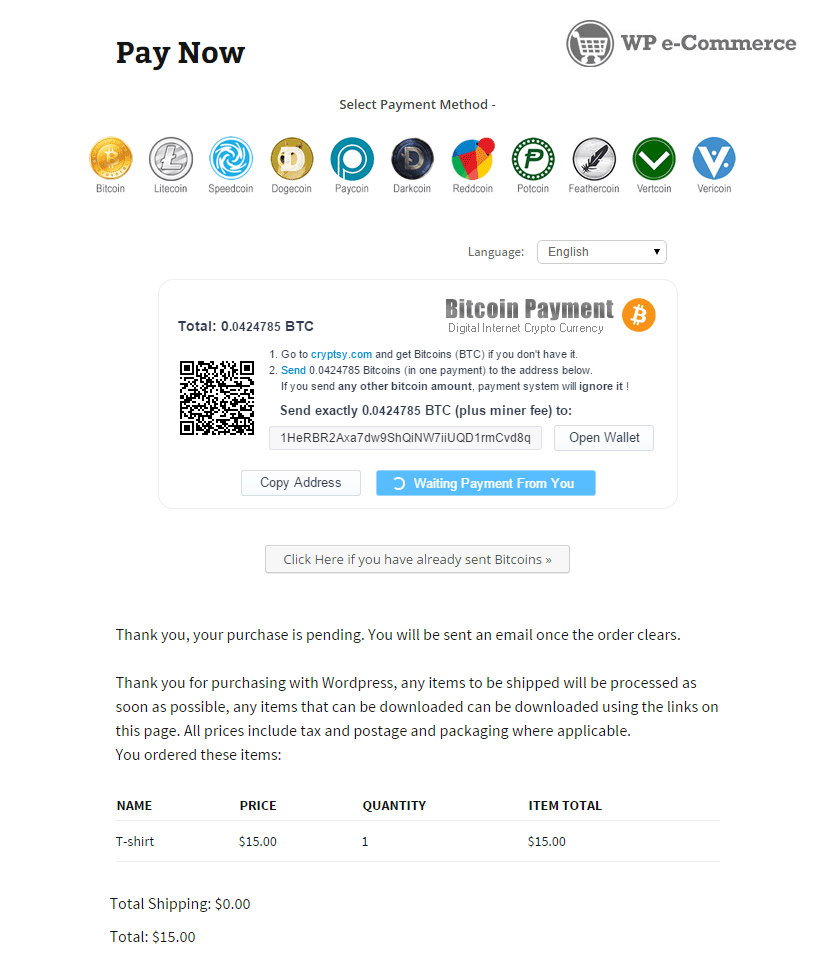
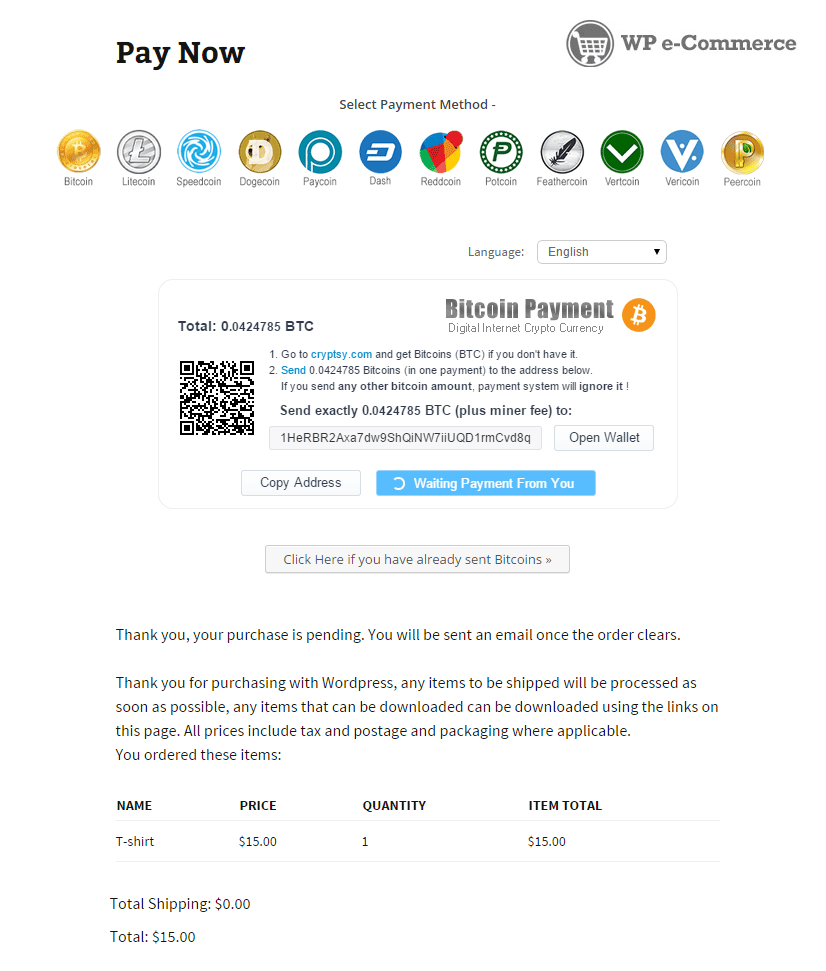
Version 1.1.0 Added Peercoin Spanish payment box localisation
git-svn-id: https://plugins.svn.wordpress.org/gourl-wp-ecommerce-bitcoin-altcoin-payment-gateway-addon/trunk@1145694 b8457f37-d9ea-0310-8a92-e5e31aec5664

Changed region(s): [[0.0605, 0.1236, 0.9383, 0.2163]]

diff --git a/gourl-wp-ecommerce.php b/gourl-wp-ecommerce.php
@@ -2,8 +2,8 @@
 /*
 Plugin Name: 		GoUrl WP eCommerce - Bitcoin Altcoin Payment Gateway Addon
 Plugin URI: 		https://gourl.io/bitcoin-payments-wp-ecommerce.html
-Description: 		Provides a <a href="https://gourl.io">GoUrl.io</a> Bitcoin/Altcoins Payment Gateway for <a href="https://wordpress.org/plugins/wp-e-commerce/">WP eCommerce 3.8.10+</a>. Support product prices in USD/EUR/etc and in Bitcoin/Altcoins directly; sends the amount straight to your business Bitcoin/Altcoin wallet. Convert your USD/EUR/etc prices to cryptocoins using Google/Bitstamp/Cryptsy Live Exchange Rates. Accept Bitcoin, Litecoin, Speedcoin, Dogecoin, Paycoin, Darkcoin, Reddcoin, Potcoin, Feathercoin, Vertcoin, Vericoin payments online. No Chargebacks, Global, Secure. All in automatic mode.
-Version: 			1.0.1
+Description: 		Provides a <a href="https://gourl.io">GoUrl.io</a> Bitcoin/Altcoin Payment Gateway for <a href="https://wordpress.org/plugins/wp-e-commerce/">WP eCommerce 3.8.10+</a>. Support product prices in USD/EUR/etc and in Bitcoin/Altcoins directly; sends the amount straight to your business Bitcoin/Altcoin wallet. Convert your USD/EUR/etc prices to cryptocoins using Google/Bitstamp/Cryptsy Live Exchange Rates. Accept Bitcoin, Litecoin, Paycoin, Dogecoin, Dash, Speedcoin, Reddcoin, Potcoin, Feathercoin, Vertcoin, Vericoin, Peercoin payments online. No Chargebacks, Global, Secure. All in automatic mode.
+Version: 			1.1.0
 Author: 			GoUrl.io
 Author URI: 		https://gourl.io
 License: 			GPLv2
@@ -111,13 +111,13 @@ class wpsc_gourl_gateway extends wpsc_merchant
 		
 		if (class_exists('gourlclass') && defined('GOURL') && defined('GOURL_ADMIN') && is_object($gourl))
 		{
-			if (true === version_compare(GOURL_VERSION, '1.2.7', '<'))
+			if (true === version_compare(GOURL_VERSION, '1.3', '<'))
 			{
-				$description .= '<div class="error"><p>' .sprintf(__( '<b>Your GoUrl Bitcoin Gateway <a href="%s">Main Plugin</a> version is too old. Requires 1.2.7 or higher version. Please <a href="%s">update</a> to latest version.</b>  &#160; &#160; &#160; &#160; Information: &#160; <a href="https://gourl.io/bitcoin-wordpress-plugin.html">Plugin Homepage</a> &#160; &#160; &#160; <a href="https://wordpress.org/plugins/gourl-bitcoin-payment-gateway-paid-downloads-membership/">WordPress.org Plugin Page</a>', GOURLWPSC ), GOURL_ADMIN.GOURL, $mainplugin_url).'</p></div>';
+				$description .= '<div class="error"><p>' .sprintf(__( '<b>Your GoUrl Bitcoin Gateway <a href="%s">Main Plugin</a> version is too old. Requires 1.3 or higher version. Please <a href="%s">update</a> to latest version.</b>  &#160; &#160; &#160; &#160; Information: &#160; <a href="https://gourl.io/bitcoin-wordpress-plugin.html">Plugin Homepage</a> &#160; &#160; &#160; <a href="https://wordpress.org/plugins/gourl-bitcoin-payment-gateway-paid-downloads-membership/">WordPress.org Plugin Page</a>', GOURLWPSC ), GOURL_ADMIN.GOURL, $mainplugin_url).'</p></div>';
 			}
 			elseif (true === version_compare(WPSC_VERSION, '3.8.10', '<'))
 			{
-				$description .= '<div class="error"><p>' .sprintf(__( '<b>Your WP eCommerce version %s is too old</b>. Requires 3.8.10 or higher version for GoUrl Bitcoin/Altcoins Payment Gateway', GOURLWPSC ), WPSC_VERSION).'</p></div>';
+				$description .= '<div class="error"><p>' .sprintf(__( '<b>Your WP eCommerce version %s is too old</b>. Requires 3.8.10 or higher version for GoUrl Bitcoin/Altcoin Payment Gateway', GOURLWPSC ), WPSC_VERSION).'</p></div>';
 			}
 			else
 			{
@@ -145,7 +145,7 @@ class wpsc_gourl_gateway extends wpsc_merchant
 	
 		$description .= "<br/><b>" . __( 'Secure payments with virtual currency. &#160; <a target="_blank" href="https://bitcoin.org/">What is Bitcoin?</a>', GOURLWPSC ) . '</b><br/>';
 		$description .= __( 'If you use multiple stores/sites online, please create separate <a target="_blank" href="https://gourl.io/editrecord/coin_boxes/0">GoUrl Payment Box</a> (with unique payment box public/private keys) for each of your stores/websites. Do not use the same GoUrl Payment Box with the same public/private keys on your different websites/stores.', GOURLWPSC ).'<br/>';
-		$description .= sprintf(__( 'Accept %s payments online in WP eCommerce.', GOURLWPSC), ($coin_names?ucwords(implode(", ", $coin_names)):"Bitcoin, Litecoin, Speedcoin, Dogecoin, Paycoin, Darkcoin, Reddcoin, Potcoin, Feathercoin, Vertcoin, Vericoin")).'<br/>';
+		$description .= sprintf(__( 'Accept %s payments online in WP eCommerce.', GOURLWPSC), ($coin_names?ucwords(implode(", ", $coin_names)):"Bitcoin, Litecoin, Paycoin, Dogecoin, Dash, Speedcoin, Reddcoin, Potcoin, Feathercoin, Vertcoin, Vericoin, Peercoin")).'<br/>';
 	
 		
 		$logos = array('global' => __( 'GoUrl default logo - "Global Payments"', GOURLWPSC ));
@@ -285,9 +285,9 @@ class wpsc_gourl_gateway extends wpsc_merchant
 		$mainplugin_url = admin_url("plugin-install.php?tab=search&type=term&s=GoUrl+Bitcoin+Payment+Gateway+Downloads");
 	
 		// Re-test
-		if (!(class_exists('gourlclass') && defined('GOURL') && defined('GOURL_ADMIN') && is_object($gourl) && true === version_compare(GOURL_VERSION, '1.2.7', '>=')))
+		if (!(class_exists('gourlclass') && defined('GOURL') && defined('GOURL_ADMIN') && is_object($gourl) && true === version_compare(GOURL_VERSION, '1.3', '>=')))
 		{
-			$this->set_error_message('<div style="border:1px solid #eee;margin:20px 10px;padding:10px">'.sprintf(__( '<b>Error!</b> Please try a different payment method. Admin need to install and activate GoUrl Bitcoin Gateway Main Plugin 1.2.7+. <a href="%s">Bitcoin Gateway plugin page</a><br>Information: &#160; <a href="https://gourl.io/bitcoin-wordpress-plugin.html">Plugin Homepage</a> &#160; &#160; &#160; <a href="https://wordpress.org/plugins/gourl-bitcoin-payment-gateway-paid-downloads-membership/">WordPress.org Plugin Page</a> ', GOURLWPSC ), $mainplugin_url).'</p></div>');
+			$this->set_error_message('<div style="border:1px solid #eee;margin:20px 10px;padding:10px">'.sprintf(__( '<b>Error!</b> Please try a different payment method. Admin need to install and activate GoUrl Bitcoin Gateway Main Plugin 1.3+. <a href="%s">Bitcoin Gateway plugin page</a><br>Information: &#160; <a href="https://gourl.io/bitcoin-wordpress-plugin.html">Plugin Homepage</a> &#160; &#160; &#160; <a href="https://wordpress.org/plugins/gourl-bitcoin-payment-gateway-paid-downloads-membership/">WordPress.org Plugin Page</a> ', GOURLWPSC ), $mainplugin_url).'</p></div>');
 			$this->set_purchase_processed_by_purchid(1); // WPSC_Purchase_Log::INCOMPLETE_SALE
 			return;
 		}
@@ -364,6 +364,7 @@ class wpsc_gourl_gateway extends wpsc_merchant
 		$order_user_id		= $arr["purchase_log"]["user_ID"];
 
 		if ($order_currency == "DOG") $order_currency = "DOGE"; // WP eCommerce allow max 3 symbols for coin symbol
+		if ($order_currency == "DAS") $order_currency = "DASH"; // WP eCommerce allow max 3 symbols for coin symbol
 		
 		
 		// Security
@@ -377,7 +378,7 @@ class wpsc_gourl_gateway extends wpsc_merchant
 			echo '<h2>' . __( 'Information', GOURLWPSC ) . '</h2>' . PHP_EOL;
 			echo "<div style='border:1px solid #eee;margin:20px 10px;padding:10px'>".__( "Please try a different payment method. Admin need to install and activate wordpress plugin 'GoUrl Bitcoin Gateway' (https://gourl.io/bitcoin-wordpress-plugin.html) to accept Bitcoin/Altcoin Payments online", GOURLWPSC )."</div>";
 		}
-		elseif (!$payments || !$defcoin || true === version_compare(WPSC_VERSION, '3.8.10', '<') || true === version_compare(GOURL_VERSION, '1.2.7', '<') ||
+		elseif (!$payments || !$defcoin || true === version_compare(WPSC_VERSION, '3.8.10', '<') || true === version_compare(GOURL_VERSION, '1.3', '<') ||
 				(array_key_exists($order_currency, $coin_names) && !array_key_exists($order_currency, $payments)))
 		{
 			echo '<h2>' . __( 'Information', GOURLWPSC ) . '</h2>' . PHP_EOL;
@@ -476,15 +477,16 @@ class wpsc_gourl_gateway extends wpsc_merchant
 			$sql = "INSERT INTO `".WPSC_TABLE_CURRENCY_LIST."` VALUES
 				(0, 'Cryptocurrency', 'C1', 'Bitcoin', '', '', 'BTC', '0', '0','world','1'),
 				(0, 'Cryptocurrency', 'C2', 'Litecoin', '', '', 'LTC', '0', '0','world','1'),
-				(0, 'Cryptocurrency', 'C3', 'Dogecoin', '', '', 'DOG', '0', '0','world','1'),
-				(0, 'Cryptocurrency', 'C5', 'Speedcoin', '', '', 'SPD', '0', '0','world','1'),
 				(0, 'Cryptocurrency', 'C6', 'Paycoin', '', '', 'XPY', '0', '0','world','1'),
-				(0, 'Cryptocurrency', 'C7', 'Darkcoin', '', '', 'DRK', '0', '0','world','1'),
-				(0, 'Cryptocurrency', 'C8', 'Vertcoin', '', '', 'VTC', '0', '0','world','1'),
+				(0, 'Cryptocurrency', 'C3', 'Dogecoin', '', '', 'DOG', '0', '0','world','1'),
+				(0, 'Cryptocurrency', 'C7', 'Dash', '', '', 'DASH', '0', '0','world','1'),
+				(0, 'Cryptocurrency', 'C5', 'Speedcoin', '', '', 'SPD', '0', '0','world','1'),
 				(0, 'Cryptocurrency', 'C9', 'Reddcoin', '', '', 'RDD', '0', '0','world','1'),
+				(0, 'Cryptocurrency', 'D3', 'Potcoin', '', '', 'POT', '0', '0','world','1'),
 				(0, 'Cryptocurrency', 'D1', 'Feathercoin', '', '', 'FTC', '0', '0','world','1'),
+				(0, 'Cryptocurrency', 'C8', 'Vertcoin', '', '', 'VTC', '0', '0','world','1'),
 				(0, 'Cryptocurrency', 'D2', 'Vericoin', '', '', 'VRC', '0', '0','world','1'),
-				(0, 'Cryptocurrency', 'D3', 'Potcoin', '', '', 'POT', '0', '0','world','1')";
+				(0, 'Cryptocurrency', 'D4', 'Peercoin', '', '', 'PPC', '0', '0','world','1')";
 	
 			$wpdb->query($sql);
 		}
@@ -632,12 +634,12 @@ function gourlwpecommerce_gourlcallback ($user_id, $order_id, $payment_details, 
 	wpsc_update_purchase_log_status($order_id, $status);
 	wpsc_update_purchase_log_details($order_id, array('transactid' => $trID));
 
-	
+
 	// WP eCommerce not use new updated order status, therefore need to refresh page manually
 	if (in_array($status, array(3,4,5)) && !in_array($arr["processed"], array(3,4,5)) && !stripos($_SERVER["REQUEST_URI"], "cryptobox.callback.php")) { header('Location: '.$_SERVER["REQUEST_URI"]); echo "<script>window.location.href = '".$_SERVER["REQUEST_URI"]."';</script>"; die; }
 	
 	
-	return true;
+	return true; 
 }
 
 

diff --git a/readme.md b/readme.md
@@ -2,12 +2,12 @@
 GoUrl WP eCommerce - Bitcoin Altcoin Payment Gateway Addon
 -----------------------------------------------------------
 
-Version 1.0.1
+Version 1.1.0
 
 
-**Wordpress Plugin provides a Bitcoin/Altcoins Payment Gateway for WP eCommerce 3.8.10+ or higher.**
+**Wordpress Plugin provides a Bitcoin/Altcoin Payment Gateway for WP eCommerce 3.8.10+ or higher.**
 
-Accept Bitcoin, Litecoin, Speedcoin, Dogecoin, Paycoin, Darkcoin, Reddcoin, Potcoin, Feathercoin, Vertcoin, Vericoin on Website Online
+Accept Bitcoin, Litecoin, Paycoin, Dogecoin, Dash, Speedcoin, Reddcoin, Potcoin, Feathercoin, Vertcoin, Vericoin, Peercoin on Website Online
 
 * Author URI: [https://gourl.io](https://gourl.io)
 * Plugin Page: [https://gourl.io/bitcoin-payments-wp-ecommerce.html](https://gourl.io/bitcoin-payments-wp-ecommerce.html)
@@ -69,4 +69,4 @@ Plugin Options
 
   
 # ![WP eCommerce-Plugin-Options](https://gourl.io/images/wp-ecommerce/screenshot-1.png)
-     
+
